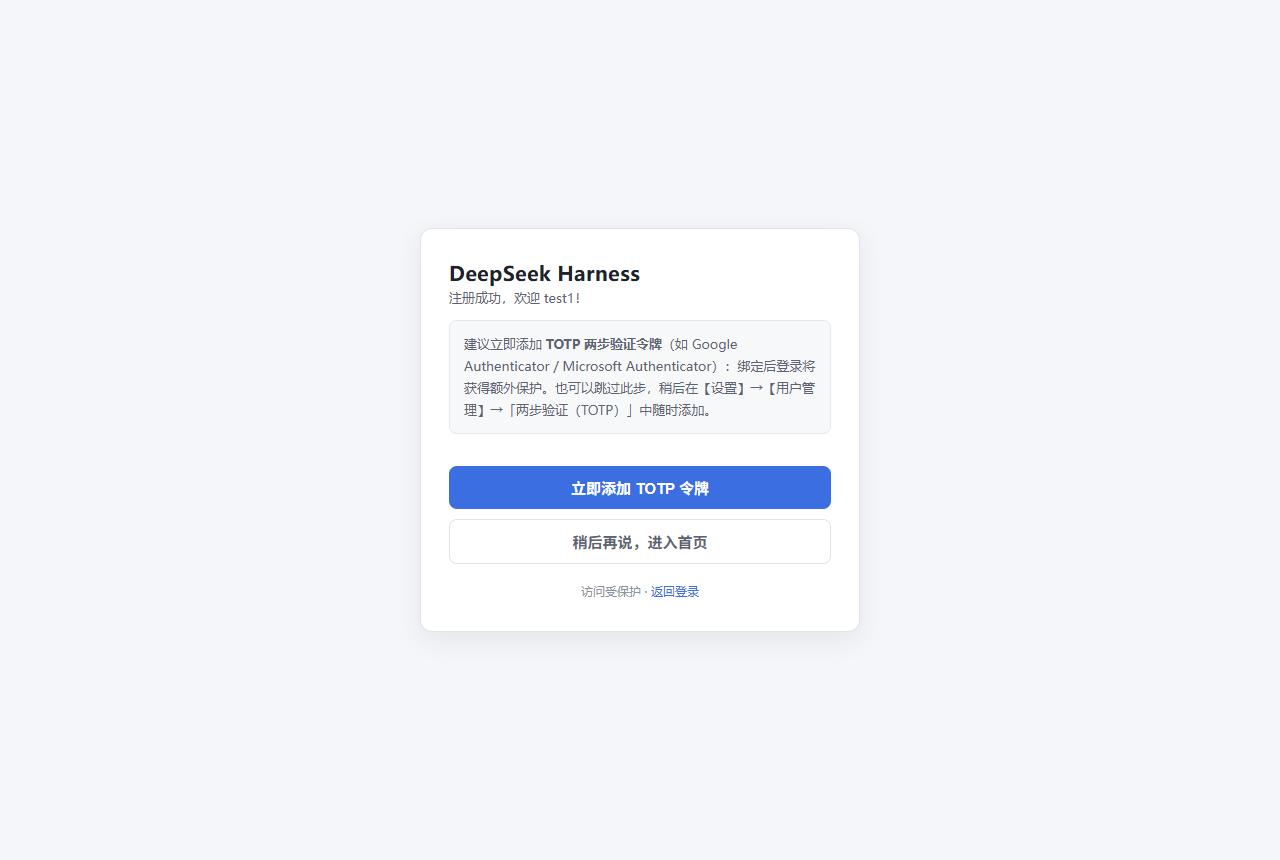
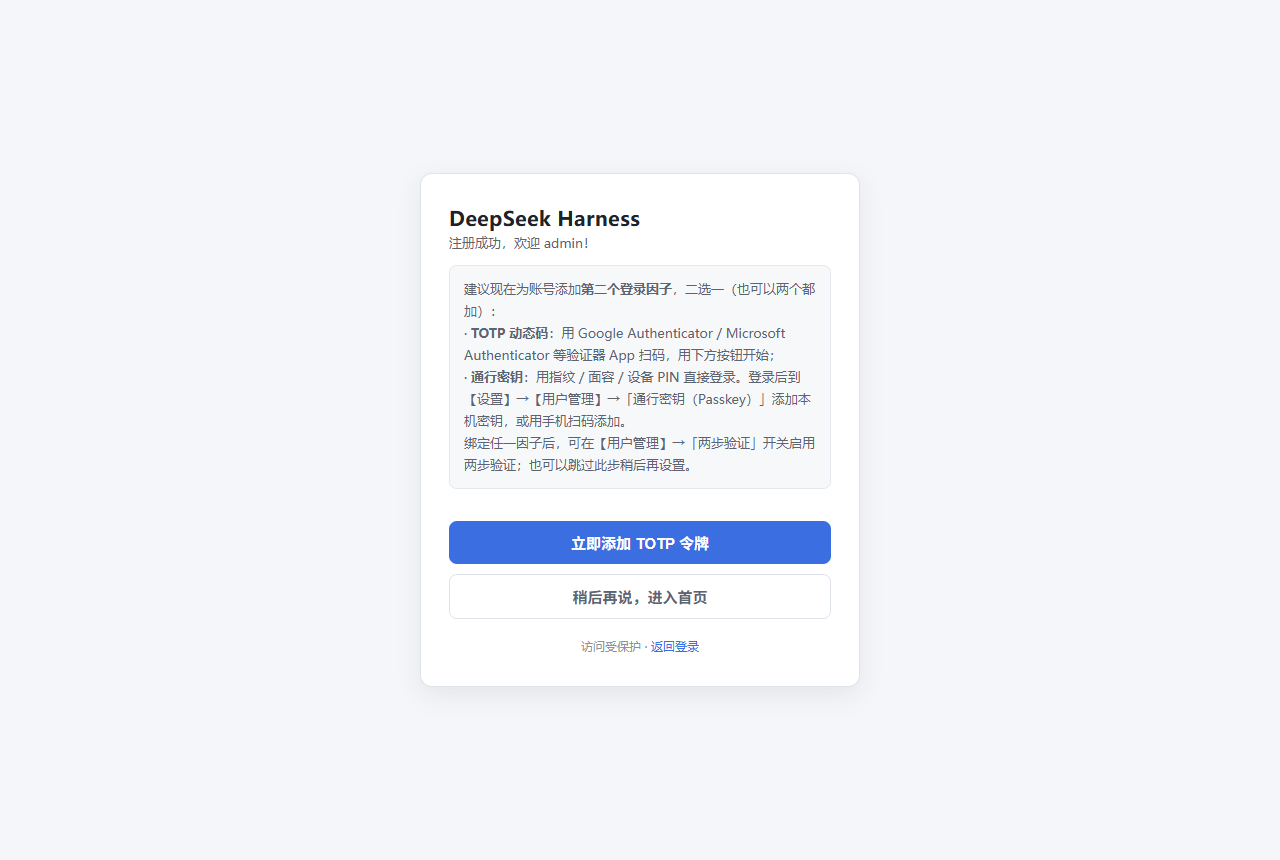
docs/ui: advertise both second factors on the registration guide page
The guide page shown right after sign-up still pushed TOTP as the only option, and the
login reminder popup had the same bias. Two-factor authentication can now be satisfied by
a passkey, so both surfaces describe the choice and how to turn 2FA on afterwards.

- registerSuccessPage: the tip lists TOTP (verifier app QR) and passkeys (fingerprint /
  face / device PIN, added later from the user-management card, including phone QR) as
  alternatives, and explains that 2FA is enabled on the card once either exists; the
  success message points at the passkey card as well.
- test/login-page-check.mjs also parses the guide page's inline script (that class of
  script is what silently broke before) and asserts both factors are advertised.
- test/shot.mjs captures the guide page and prints the tables it just captured, so the
  README images can be checked without reading the images themselves; demo accounts now
  pick the first free names because deleted usernames are permanently retired.
- README: documents that retired usernames cannot be recreated (and why).
- assets: all five preview images recaptured on a throwaway instance (clean user table,
  passkey card in its "add a key" state).

npm test (147/147 + 13/13 + smoke suites), typecheck and store:check stay green.

Changed region(s): [[0.3438, 0.2419, 0.6562, 0.7558]]

diff --git a/lib/index.js b/lib/index.js
@@ -2092,8 +2092,10 @@ export function apply(ctx) {
             '</style></head><body><div class="card">' +
             '<div class="brand">DeepSeek Harness</div>' +
             '<div class="sub">注册成功，欢迎 ' + escHtml(username) + '！</div>' +
-            '<div class="tip">建议立即添加 <b>TOTP 两步验证令牌</b>（如 Google Authenticator / Microsoft Authenticator）：' +
-            '绑定后登录将获得额外保护。也可以跳过此步，稍后在【设置】→【用户管理】→「两步验证（TOTP）」中随时添加。</div>' +
+            '<div class="tip">建议现在为账号添加<b>第二个登录因子</b>，二选一（也可以两个都加）：<br>' +
+            '· <b>TOTP 动态码</b>：用 Google Authenticator / Microsoft Authenticator 等验证器 App 扫码，用下方按钮开始；<br>' +
+            '· <b>通行密钥</b>：用指纹 / 面容 / 设备 PIN 直接登录。登录后到【设置】→【用户管理】→「通行密钥（Passkey）」添加本机密钥，或用手机扫码添加。<br>' +
+            '绑定任一因子后，可在【用户管理】→「两步验证」开关启用两步验证；也可以跳过此步稍后再设置。</div>' +
             '<button id="g">立即添加 TOTP 令牌</button>' +
             '<div id="panel" style="display:none">' +
             '<img id="qr" alt="TOTP 二维码" style="display:none;width:200px;height:200px;border-radius:8px;background:#fff;padding:6px;margin:6px auto;border:1px solid #2a2f3a">' +
@@ -2119,7 +2121,7 @@ export function apply(ctx) {
             'v.addEventListener("click",function(){v.disabled=true;m.textContent="";e2.textContent="";' +
             'fetch("/auth/rpc/totpVerify",{method:"POST",headers:{"content-type":"application/json"},body:JSON.stringify({code:c.value})})' +
             '.then(function(r){return r.json().catch(function(){return {}}).then(function(j){return {status:r.status,json:j}})}).then(function(r){' +
-            'if(r.status===200&&r.json.ok){m.textContent="✓ 两步验证已启用！即将进入首页…";setTimeout(function(){location.href="/"},1200);return}' +
+            'if(r.status===200&&r.json.ok){m.textContent="✓ TOTP 已启用！即将进入首页…（如需指纹 / 面容登录，可在【用户管理】添加通行密钥）";setTimeout(function(){location.href="/"},1600);return}' +
             'v.disabled=false;e2.textContent=r.json.error||("验证失败 ("+r.status+")")})' +
             '.catch(function(){v.disabled=false;e2.textContent="网络错误，请重试"})})})()' +
             '</script></body></html>';

diff --git a/src/index.ts b/src/index.ts
@@ -2091,8 +2091,10 @@ export function apply(ctx: CordisContext): void {
         '</style></head><body><div class="card">' +
         '<div class="brand">DeepSeek Harness</div>' +
         '<div class="sub">注册成功，欢迎 ' + escHtml(username) + '！</div>' +
-        '<div class="tip">建议立即添加 <b>TOTP 两步验证令牌</b>（如 Google Authenticator / Microsoft Authenticator）：' +
-        '绑定后登录将获得额外保护。也可以跳过此步，稍后在【设置】→【用户管理】→「两步验证（TOTP）」中随时添加。</div>' +
+        '<div class="tip">建议现在为账号添加<b>第二个登录因子</b>，二选一（也可以两个都加）：<br>' +
+        '· <b>TOTP 动态码</b>：用 Google Authenticator / Microsoft Authenticator 等验证器 App 扫码，用下方按钮开始；<br>' +
+        '· <b>通行密钥</b>：用指纹 / 面容 / 设备 PIN 直接登录。登录后到【设置】→【用户管理】→「通行密钥（Passkey）」添加本机密钥，或用手机扫码添加。<br>' +
+        '绑定任一因子后，可在【用户管理】→「两步验证」开关启用两步验证；也可以跳过此步稍后再设置。</div>' +
         '<button id="g">立即添加 TOTP 令牌</button>' +
         '<div id="panel" style="display:none">' +
         '<img id="qr" alt="TOTP 二维码" style="display:none;width:200px;height:200px;border-radius:8px;background:#fff;padding:6px;margin:6px auto;border:1px solid #2a2f3a">' +
@@ -2118,7 +2120,7 @@ export function apply(ctx: CordisContext): void {
         'v.addEventListener("click",function(){v.disabled=true;m.textContent="";e2.textContent="";' +
         'fetch("/auth/rpc/totpVerify",{method:"POST",headers:{"content-type":"application/json"},body:JSON.stringify({code:c.value})})' +
         '.then(function(r){return r.json().catch(function(){return {}}).then(function(j){return {status:r.status,json:j}})}).then(function(r){' +
-        'if(r.status===200&&r.json.ok){m.textContent="✓ 两步验证已启用！即将进入首页…";setTimeout(function(){location.href="/"},1200);return}' +
+        'if(r.status===200&&r.json.ok){m.textContent="✓ TOTP 已启用！即将进入首页…（如需指纹 / 面容登录，可在【用户管理】添加通行密钥）";setTimeout(function(){location.href="/"},1600);return}' +
         'v.disabled=false;e2.textContent=r.json.error||("验证失败 ("+r.status+")")})' +
         '.catch(function(){v.disabled=false;e2.textContent="网络错误，请重试"})})})()' +
         '</script></body></html>'

diff --git a/README.md b/README.md
@@ -241,6 +241,10 @@ modern 传输线为安全起见对普通用户**更严格**：不能创建 works
 删除 `~/.dsh/.credentials.yaml` 中 `dsh-auth/admin`（及其对应的哈希记录），重启面板后会重新生成 `admin`
 与新的随机密码（原账号的 TOTP、通行密钥与资料会丢失）。其他用户的密码可由管理员在用户管理中重置。
 
+**删掉的用户想用同一个名字重建，提示「用户名已存在」？**
+这是有意设计：被删除的用户名会写入**永久墓碑**，同名账号不能重建，避免新账号继承旧账号留下的
+会话归属、邀请码记录等历史残留。请换一个用户名，或按上面的方法清空整张用户表后重新引导。
+
 **绑定的通行密钥设备丢了怎么办？**
 两个办法：① 若该账号还绑定了 TOTP，用「密码 + 动态码」登录后在【用户管理】里删除丢失的通行密钥；
 ② 请管理员在【用户管理】→ 对应用户行点「清除通行密钥」。管理员自己的通行密钥若全部丢失且未绑定 TOTP，

diff --git a/CHANGELOG.md b/CHANGELOG.md
@@ -62,6 +62,8 @@ Chrome 会抛 `SecurityError: 127.0.0.1 is an invalid domain`（实测 Chrome 15
 - 文档工具：`npm run docs:matrix` 用安全套件的逐项输出重新生成 SECURITY.md 的测试矩阵
   （套件未全绿时拒绝改写文档）；`npm run assets` 在一次性实例上重拍 README 预览图
   （`test/shot.mjs`，环境变量驱动、不写真实账号数据）。
+- 文案：注册成功引导页改为同时介绍**两种第二因子**（TOTP 动态码 / 通行密钥）并说明绑定任一种后
+  如何开启两步验证；登录提醒弹窗同样改为「TOTP 或通行密钥」。
 
 ### 验证（2026-09-16）
 
